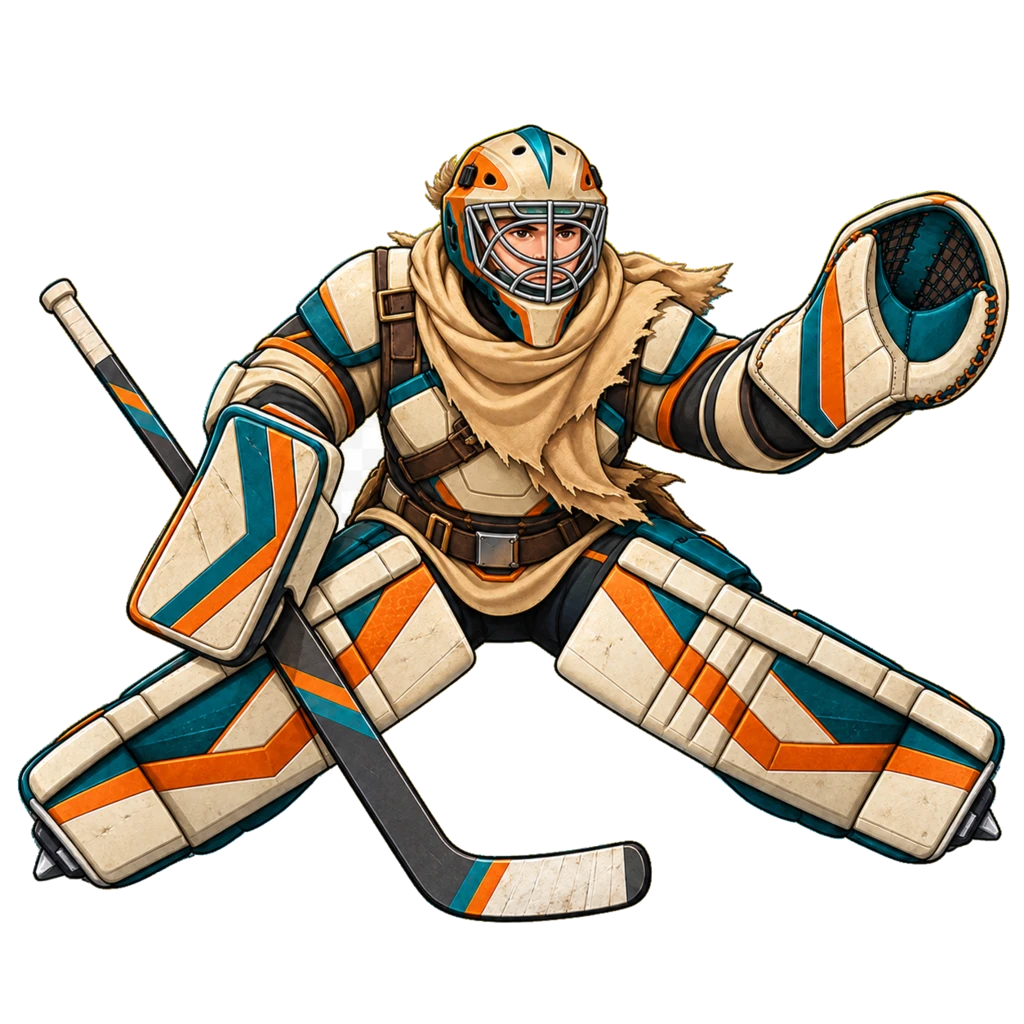
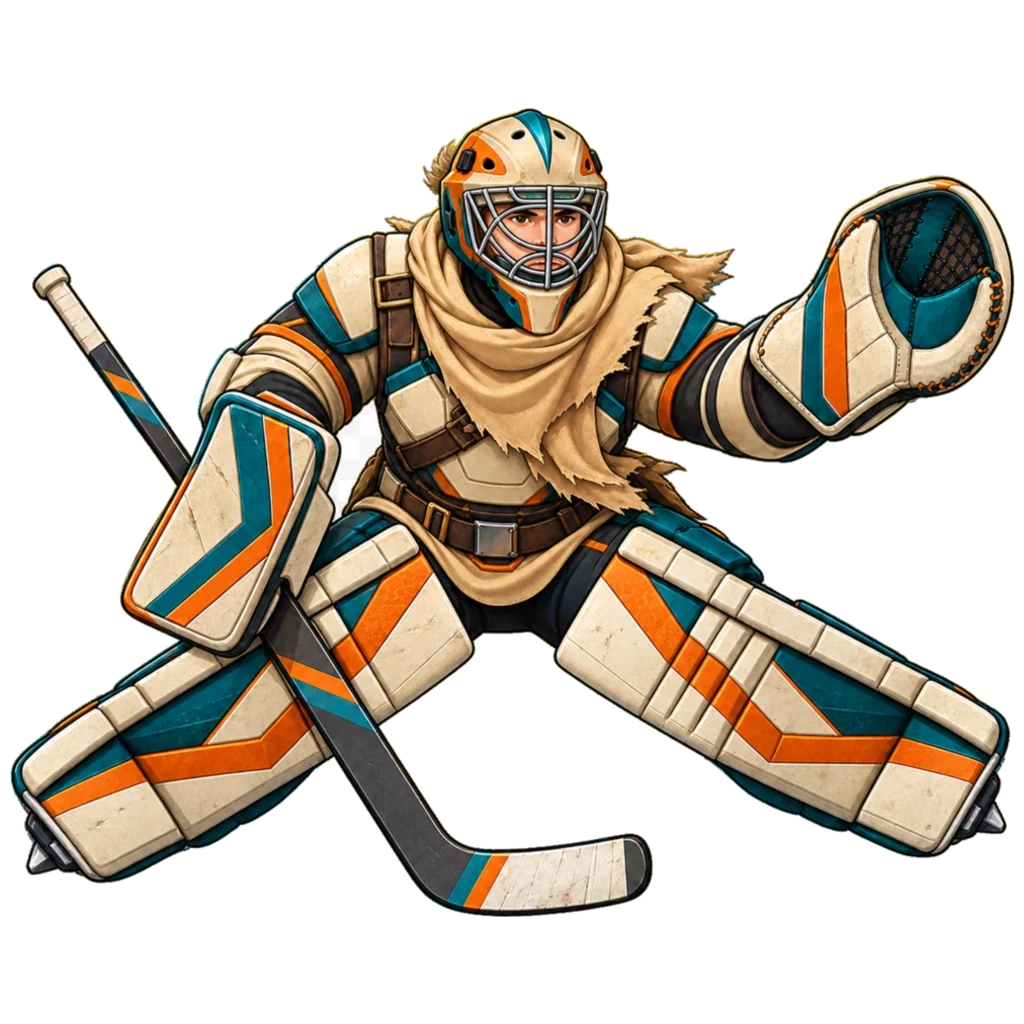
fix: align bonus goalie sprites and rink layout

Changed region(s): [[0.0, 0.0938, 1.0, 0.875], [0.375, 0.8125, 0.6562, 0.9062], [0.4062, 0.7812, 0.4375, 0.8125]]

diff --git a/packages/server/test/bonusGames/assets.test.ts b/packages/server/test/bonusGames/assets.test.ts
@@ -1,0 +1,69 @@
+import { fileURLToPath } from 'node:url';
+import path from 'node:path';
+import sharp from 'sharp';
+import { describe, expect, it } from 'vitest';
+
+const GOALKEEPER_DIR = path.resolve(
+  path.dirname(fileURLToPath(import.meta.url)),
+  '../../../web/public/bonus-games/goalkeepers',
+);
+
+const SLUGS = [
+  'beach',
+  'ski-resort',
+  'cyberpunk-yard',
+  'abandoned-waterpark',
+  'pirate-bay',
+  'north-pole',
+  'desert',
+  'volcanic-ice',
+  'castle',
+  'space',
+] as const;
+
+async function visibleBounds(filePath: string): Promise<{ width: number; height: number }> {
+  const { data, info } = await sharp(filePath)
+    .ensureAlpha()
+    .raw()
+    .toBuffer({ resolveWithObject: true });
+  let minX = info.width;
+  let minY = info.height;
+  let maxX = -1;
+  let maxY = -1;
+
+  for (let y = 0; y < info.height; y += 1) {
+    for (let x = 0; x < info.width; x += 1) {
+      if (data[(y * info.width + x) * info.channels + 3] === 0) continue;
+      minX = Math.min(minX, x);
+      minY = Math.min(minY, y);
+      maxX = Math.max(maxX, x);
+      maxY = Math.max(maxY, y);
+    }
+  }
+
+  if (maxX < minX || maxY < minY) throw new Error(`Transparent goalkeeper asset: ${filePath}`);
+  return { width: maxX - minX + 1, height: maxY - minY + 1 };
+}
+
+describe('bonus goalkeeper asset framing', () => {
+  it.each(SLUGS)(
+    'keeps %s ready and save poses proportioned like training sprites',
+    async (slug) => {
+      const ready = await visibleBounds(path.join(GOALKEEPER_DIR, `${slug}-ready.webp`));
+      const save = await visibleBounds(path.join(GOALKEEPER_DIR, `${slug}-save.webp`));
+
+      expect(ready.width).toBeGreaterThanOrEqual(820);
+      expect(ready.width).toBeLessThanOrEqual(850);
+      expect(ready.height).toBeGreaterThanOrEqual(815);
+      expect(ready.height).toBeLessThanOrEqual(860);
+
+      expect(save.width).toBeGreaterThanOrEqual(850);
+      expect(save.width).toBeLessThanOrEqual(1_015);
+      expect(save.height).toBeGreaterThanOrEqual(745);
+      expect(save.height).toBeLessThanOrEqual(815);
+      expect(save.width / ready.width).toBeGreaterThanOrEqual(1.02);
+      expect(save.height / ready.height).toBeGreaterThanOrEqual(0.88);
+      expect(save.height / ready.height).toBeLessThanOrEqual(0.99);
+    },
+  );
+});

diff --git a/packages/web/src/components/BottomNav.test.tsx b/packages/web/src/components/BottomNav.test.tsx
@@ -128,14 +128,20 @@ describe('BottomNav remembered navigation', () => {
     expect(sectionsSurface?.getAttribute('style')).toContain('rgba(15, 23, 42, 0.92)');
   });
 
-  it.each(['/bonus-games', '/bonus-games/beach/play'])('keeps %s on the sections tab', (path) => {
-    renderBottomNav(path);
+  it('keeps the bonus games catalog on the sections tab', () => {
+    renderBottomNav('/bonus-games');
 
     const gameSurface = screen.getByRole('button', { name: 'Игра' }).querySelector('div');
     const sectionsSurface = screen.getByRole('button', { name: 'Разделы' }).querySelector('div');
 
     expect(gameSurface?.getAttribute('style')).toContain('rgba(255, 255, 255, 0.55)');
     expect(sectionsSurface?.getAttribute('style')).toContain('rgba(15, 23, 42, 0.92)');
+  });
+
+  it('hides the dock inside an active bonus game rink', () => {
+    renderBottomNav('/bonus-games/00000000-0000-4000-8000-000000000601/play?attempt=attempt-id');
+
+    expect(screen.queryByRole('button', { name: 'Игра' })).toBeNull();
   });
 
   it('hides the dock on the open rink screen', () => {

diff --git a/packages/web/src/components/BottomNav.tsx b/packages/web/src/components/BottomNav.tsx
@@ -97,6 +97,7 @@ function normalizeNavLocation(location: string | NavLocation): NavLocation {
 }
 
 function isOpenRinkRoute(location: NavLocation): boolean {
+  if (/^\/bonus-games\/[^/]+\/play$/.test(location.pathname)) return true;
   if (location.pathname !== '/') return false;
   const params = new URLSearchParams(location.search);
   const view = params.get('view');
